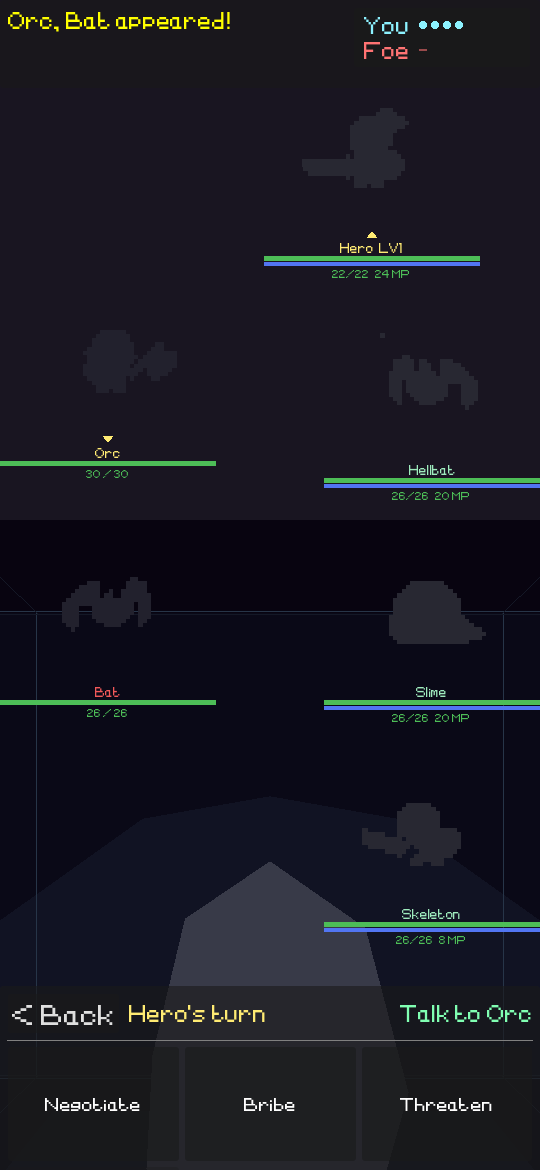
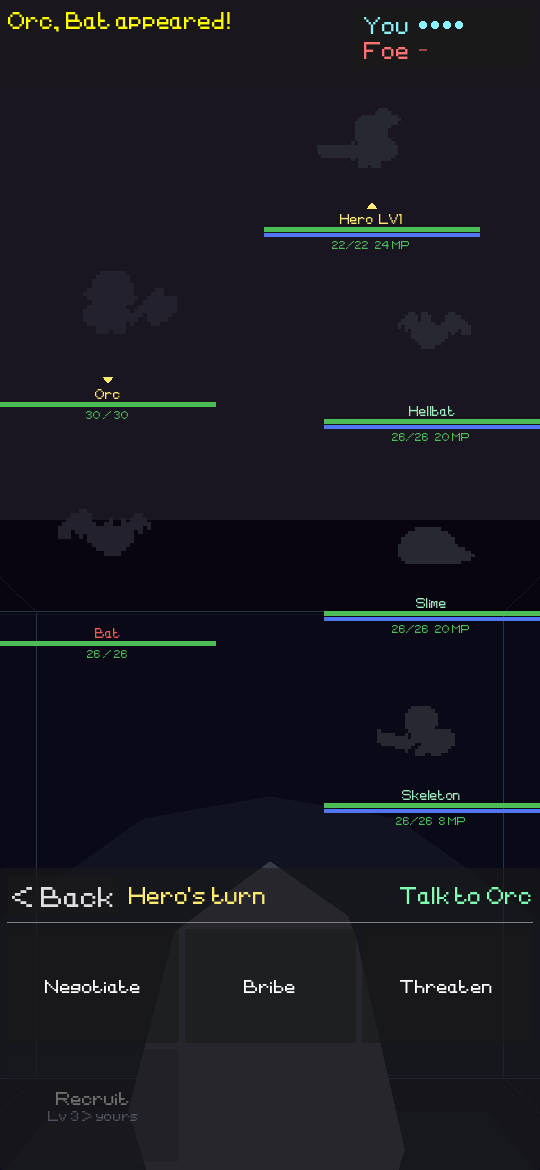
four a side no longer pushes Talk, Summon and Flee off the screen
four cards down one column were taller than the space between the log and the menu, so the menu's second row went off the bottom: 118px over with a full party, 186px with four foes, broken in 7 of the 16 party x pack sizes. a column that won't fit shrinks its portraits until it does, and re-checks whenever a summon changes the party. three or fewer a side keep the full size. tutorial shots retaken and the devlog says so

Claude-Session: https://claude.ai/code/session_01Uhk3EMYpAHGbVF4A7SC27j

diff --git a/docs/devlog-2026-09-28.html b/docs/devlog-2026-09-28.html
@@ -58,6 +58,14 @@
 
 <p>Two things kept their names on purpose. <strong>Bind</strong> the spell still holds a monster in place; that&rsquo;s the Ice Dragon&rsquo;s favourite move and it has nothing to do with recruiting. And the monsters actually <em>called</em> Demon &mdash; Fell Demon, Arch Demon, Demoness and the rest &mdash; are species, not a category.</p>
 
+<h2>Four a side pushed the buttons off</h2>
+
+<p>With a full party &mdash; you and three monsters &mdash; the second row of the battle menu wasn&rsquo;t there. No Talk, no Summon, no Flee. Four monsters on the other side did the same thing.</p>
+
+<p>Every card is a fixed size, and four stacked down one column are taller than the space between the log and the menu, so the menu got shoved off the bottom of the screen. Four on your side overflowed by 118 pixels; four foes, whose cards also carry their chart, by 186. Seven of the sixteen party-size &times; pack-size combinations were broken, and I&rsquo;d walked straight past it &mdash; the tutorial&rsquo;s own fight screenshot has a full party and three buttons.</p>
+
+<p>A column that won&rsquo;t fit shrinks its own portraits until it does now. Three or fewer a side keep the full size. All sixteen fit.</p>
+
 <h2>Still on the list</h2>
 
 <p>No sound. Both testers noticed; one called it the biggest thing holding the game back, and they&rsquo;re right. And nothing on the page says up front that it&rsquo;s built for a phone. Those are next.</p>

diff --git a/docs/devlog-2026-09-28.md b/docs/devlog-2026-09-28.md
@@ -107,6 +107,22 @@ in place; that's the Ice Dragon's favourite move and it has nothing to do with
 recruiting. And the monsters actually *called* Demon — Fell Demon, Arch Demon,
 Demoness and the rest — are species, not a category.
 
+## Four a side pushed the buttons off
+
+With a full party — you and three monsters — the second row of the battle menu
+wasn't there. No Talk, no Summon, no Flee. Four monsters on the other side did
+the same thing.
+
+Every card is a fixed size, and four stacked down one column are taller than
+the space between the log and the menu, so the menu got shoved off the bottom
+of the screen. Four on your side overflowed by 118 pixels; four foes, whose
+cards also carry their chart, by 186. Seven of the sixteen party-size ×
+pack-size combinations were broken, and I'd walked straight past it — the
+tutorial's own fight screenshot has a full party and three buttons.
+
+A column that won't fit shrinks its own portraits until it does now. Three or
+fewer a side keep the full size. All sixteen fit.
+
 ## Still on the list
 
 No sound. Both testers noticed; one called it the biggest thing holding the game
